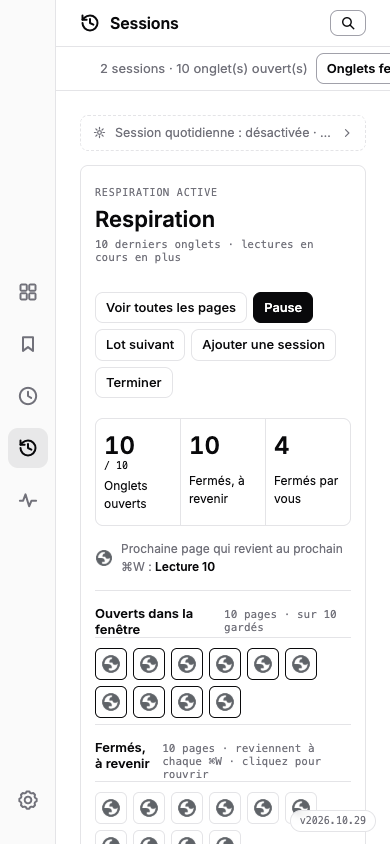
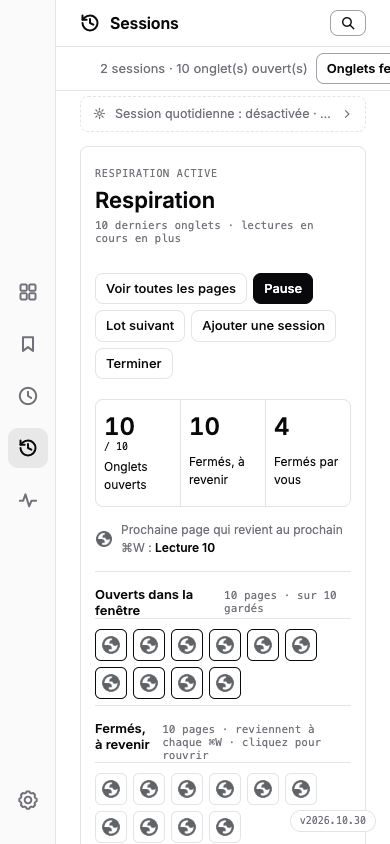
add: apercu au survol des favicones dans respiration (titre, url, vignette)

diff --git a/extension/sessions.js b/extension/sessions.js
@@ -157,7 +157,7 @@
   }
 
   const domain = (url) => { try { return new URL(url).hostname.replace(/^www\./, ""); } catch { return ""; } };
-  const faviconImg = (tab) => `<img class="tl-fav" src="${esc(`${chrome.runtime.getURL("_favicon/")}?pageUrl=${encodeURIComponent(tab.url)}&size=32`)}" alt="" loading="lazy">`;
+  const faviconImg = (tab) => `<img class="tl-fav" data-page-url="${esc(tab.url)}" data-page-title="${esc(tab.title || tab.url)}" src="${esc(`${chrome.runtime.getURL("_favicon/")}?pageUrl=${encodeURIComponent(tab.url)}&size=32`)}" alt="" loading="lazy">`;
 
   async function previewSource(url) {
     if (previewCache.has(url)) return previewCache.get(url);
@@ -184,6 +184,119 @@
       }
       figure.querySelector("figcaption").textContent = caption || domain(url);
     }).catch(() => {});
+  }
+
+  // Un seul aperçu, chargé à la demande : aucune page de la file n’est réveillée.
+  function bindIconPreview() {
+    const card = document.createElement("div");
+    card.id = "session-icon-preview";
+    card.className = "session-icon-preview";
+    card.setAttribute("popover", "manual");
+    card.setAttribute("role", "tooltip");
+    card.innerHTML = '<div class="session-icon-shot"></div><div class="session-icon-caption"><strong></strong><span></span></div>';
+    document.body.append(card);
+    const shot = card.querySelector(".session-icon-shot");
+    let anchor = null, pointer = null, showTimer, hideTimer, imageTimer, generation = 0;
+    const hide = () => {
+      clearTimeout(showTimer); clearTimeout(hideTimer); clearTimeout(imageTimer);
+      generation++;
+      if (anchor) {
+        const ids = (anchor.getAttribute("aria-describedby") || "").split(/\s+/).filter((id) => id && id !== card.id);
+        if (ids.length) anchor.setAttribute("aria-describedby", ids.join(" "));
+        else anchor.removeAttribute("aria-describedby");
+      }
+      anchor = null;
+      card.hidePopover();
+      shot.replaceChildren();
+    };
+    const position = () => {
+      if (!anchor?.isConnected) return hide();
+      const rect = anchor.getBoundingClientRect();
+      const box = card.getBoundingClientRect();
+      const left = Math.max(8, Math.min(rect.left, innerWidth - box.width - 8));
+      const below = rect.bottom + 8;
+      const top = below + box.height <= innerHeight - 8 ? below : Math.max(8, rect.top - box.height - 8);
+      card.style.left = `${left}px`;
+      card.style.top = `${top}px`;
+    };
+    const find = (target) => {
+      if (!(target instanceof Element)) return null;
+      const trigger = target.closest(".respiration-fav") || target.closest(".tl-fav[data-page-url]");
+      const img = trigger?.matches("img") ? trigger : trigger?.querySelector(".tl-fav[data-page-url]");
+      return img ? { trigger, img } : null;
+    };
+    const show = (item, immediate = false) => {
+      clearTimeout(hideTimer);
+      if (anchor === item.trigger) return;
+      hide();
+      anchor = item.trigger;
+      const token = generation;
+      const { pageUrl: url, pageTitle: title } = item.img.dataset;
+      showTimer = setTimeout(async () => {
+        if (token !== generation || !anchor?.isConnected) return;
+        card.querySelector("strong").textContent = title;
+        card.querySelector(".session-icon-caption > span").textContent = url;
+        shot.textContent = "Chargement de la vignette…";
+        anchor.setAttribute("aria-describedby", [anchor.getAttribute("aria-describedby"), card.id].filter(Boolean).join(" "));
+        card.showPopover();
+        position();
+        const unavailable = () => {
+          if (token !== generation) return;
+          clearTimeout(imageTimer);
+          shot.textContent = "Vignette indisponible pour cette page";
+        };
+        imageTimer = setTimeout(unavailable, 12000);
+        try {
+          const src = await previewSource(url) || fallbackThumb(url);
+          if (token !== generation) return;
+          if (!src) return unavailable();
+          const img = new Image();
+          img.alt = `Aperçu de ${title}`;
+          img.onload = () => {
+            if (token !== generation) return;
+            clearTimeout(imageTimer);
+            shot.replaceChildren(img);
+          };
+          img.onerror = unavailable;
+          img.src = src;
+        } catch { unavailable(); }
+      }, immediate ? 0 : 180);
+    };
+    const leave = (event) => {
+      const next = event.relatedTarget;
+      if (next instanceof Node && (card.contains(next) || anchor?.contains(next))) return;
+      clearTimeout(hideTimer);
+      hideTimer = setTimeout(hide, 160);
+    };
+    document.addEventListener("mousemove", (event) => { pointer = { x: event.clientX, y: event.clientY }; });
+    document.addEventListener("mouseover", (event) => {
+      pointer = { x: event.clientX, y: event.clientY };
+      if (card.contains(event.target)) { clearTimeout(hideTimer); return; }
+      const item = find(event.target);
+      if (item) show(item);
+    });
+    document.addEventListener("mouseout", (event) => {
+      if (anchor?.contains(event.target) || card.contains(event.target)) leave(event);
+    });
+    document.addEventListener("focusin", (event) => {
+      const item = find(event.target);
+      if (item) show(item, true);
+      else hide();
+    });
+    document.addEventListener("focusout", leave);
+    document.addEventListener("keydown", (event) => { if (event.key === "Escape") hide(); });
+    document.addEventListener("click", (event) => { if (!card.contains(event.target)) hide(); });
+    document.addEventListener("scroll", (event) => { if (!card.contains(event.target)) hide(); }, true);
+    window.addEventListener("resize", hide);
+    window.addEventListener("blur", hide);
+    // Les grilles sont recréées lors des mises à jour de la file.
+    new MutationObserver(() => {
+      if (!anchor || anchor.isConnected) return;
+      const previous = find(anchor)?.img.dataset.pageUrl;
+      const replacement = pointer && find(document.elementFromPoint(pointer.x, pointer.y));
+      hide();
+      if (replacement?.img.dataset.pageUrl === previous) show(replacement);
+    }).observe(document.body, { childList: true, subtree: true });
   }
 
   const liveSession = (win, index) => ({ ...win, id: `live:${win.id}`, title: `Fenêtre ${index + 1}`, windows: [win], tags: [], note: "" });
@@ -307,7 +420,7 @@
       const live = e.state === "open" && e.tabId != null;
       const action = live ? "focus-tab" : "open-page";
       const state = e.keepReason === "media" && e.state === "open" ? "▶ Lecture en cours" : respirationState(e.state);
-      return `<button type="button" class="respiration-fav" data-r-action="${action}"${live ? ` data-id="${e.tabId}"` : ""} data-url="${esc(e.url)}" title="${esc(`${e.title} — ${state}`)}" aria-label="${esc(`${e.title} — ${state}`)}">${faviconImg(e)}</button>`;
+      return `<button type="button" class="respiration-fav" data-r-action="${action}"${live ? ` data-id="${e.tabId}"` : ""} data-url="${esc(e.url)}" aria-label="${esc(`${e.title} — ${state}`)}">${faviconImg(e)}</button>`;
     };
     const group = (state, title, hint, entries) => `<section class="respiration-group" data-r-section="${state}"><header><strong>${title}</strong><span>${entries.length} page${entries.length > 1 ? "s" : ""}${hint ? ` · ${hint}` : ""}</span></header>${entries.length ? `<div class="respiration-grid">${entries.map(fav).join("")}</div>` : `<p class="respiration-note">Rien ici pour l’instant.</p>`}</section>`;
     const nextUp = globalThis.PKRespiration?.nextEntry?.(q) || null;
@@ -323,7 +436,7 @@
     const orderHTML = q.capsules.length > 1
       ? `<details data-r-capsules><summary>Ordre de retour · ${q.capsules.length} lots de pages</summary><p class="respiration-note">Un lot = des pages de même provenance (un groupe Chrome, ou les onglets de la fenêtre). La prochaine page vient du lot en haut ; montez, descendez ou passez au lot suivant.</p><ol class="respiration-capsules">${q.capsules.map(capsuleRow).join("")}</ol></details>`
       : "";
-    host.innerHTML = `<section class="respiration-card"><div class="respiration-head"><div><span class="respiration-eyebrow">${label}</span><h2>Respiration <span class="respiration-budget">${q.target} derniers onglets · lectures en cours en plus</span></h2></div><div class="respiration-actions">${button("view", "Voir toutes les pages")}${button(q.paused ? "resume" : "pause", q.paused ? "Reprendre" : "Pause", "", true)}${opened > q.target ? button("compact", `Réduire à ${q.target} onglets`) : ""}${usableLots > 1 ? button("next", "Lot suivant") : ""}${button("enqueue-dialog", "Ajouter une session")}${button("stop", "Terminer")}</div></div><div class="respiration-stats" role="status"><div data-state="open"><strong>${opened}<small> / ${q.target}${playing ? ` + ${playing} lecture(s)` : ""}</small></strong><span>Onglets ouverts</span></div><div data-state="pending"><strong>${pendingEntries.length}</strong><span>Fermés, à revenir</span></div><div data-state="done"><strong>${doneEntries.length}</strong><span>Fermés par vous</span></div></div>${q.reason ? `<p class="respiration-note">${esc(q.reason)}</p>` : ""}${keptHTML}${nextHTML}<div class="respiration-groups">${group("open", "Ouverts dans la fenêtre", `sur ${q.target} gardés`, openEntries)}${group("pending", "Fermés, à revenir", "reviennent à chaque ⌘W · cliquez pour rouvrir", pendingEntries)}${group("done", "Fermés par vous", "sans retour automatique", doneEntries)}${outsideEntries.length ? group("outside", "Déplacés ailleurs", "", outsideEntries) : ""}</div><p class="respiration-note">Survolez une favicône pour son titre ; cliquez pour activer l’onglet ouvert ou rouvrir la page.</p>${orderHTML}</section>`;
+    host.innerHTML = `<section class="respiration-card"><div class="respiration-head"><div><span class="respiration-eyebrow">${label}</span><h2>Respiration <span class="respiration-budget">${q.target} derniers onglets · lectures en cours en plus</span></h2></div><div class="respiration-actions">${button("view", "Voir toutes les pages")}${button(q.paused ? "resume" : "pause", q.paused ? "Reprendre" : "Pause", "", true)}${opened > q.target ? button("compact", `Réduire à ${q.target} onglets`) : ""}${usableLots > 1 ? button("next", "Lot suivant") : ""}${button("enqueue-dialog", "Ajouter une session")}${button("stop", "Terminer")}</div></div><div class="respiration-stats" role="status"><div data-state="open"><strong>${opened}<small> / ${q.target}${playing ? ` + ${playing} lecture(s)` : ""}</small></strong><span>Onglets ouverts</span></div><div data-state="pending"><strong>${pendingEntries.length}</strong><span>Fermés, à revenir</span></div><div data-state="done"><strong>${doneEntries.length}</strong><span>Fermés par vous</span></div></div>${q.reason ? `<p class="respiration-note">${esc(q.reason)}</p>` : ""}${keptHTML}${nextHTML}<div class="respiration-groups">${group("open", "Ouverts dans la fenêtre", `sur ${q.target} gardés`, openEntries)}${group("pending", "Fermés, à revenir", "reviennent à chaque ⌘W · cliquez pour rouvrir", pendingEntries)}${group("done", "Fermés par vous", "sans retour automatique", doneEntries)}${outsideEntries.length ? group("outside", "Déplacés ailleurs", "", outsideEntries) : ""}</div><p class="respiration-note">Survolez une favicône pour voir le titre, l’URL et la vignette ; cliquez pour activer l’onglet ouvert ou rouvrir la page.</p>${orderHTML}</section>`;
     const queue = host.querySelector("[data-r-capsules]");
     if (expandedQueue && queue) queue.open = true;
     if (focused?.rAction) [...host.querySelectorAll("[data-r-action]")]
@@ -1008,6 +1121,7 @@
       importButton.after(input);
       importButton.addEventListener("click", () => input.click());
     }
+    bindIconPreview();
     el.addEventListener("mouseover", previewFromEvent);
     el.addEventListener("focusin", previewFromEvent);
     document.addEventListener("keydown", (event) => {
@@ -1019,6 +1133,7 @@
     chrome.storage.onChanged.addListener((changes, area) => {
       if (area !== "local") return;
       if (changes["bs.sessions.library"] || changes["bs.sessions.previews"] || changes["bs.respiration"]) scheduleRefresh();
+      if (changes["bs.sessions.previews"] || changes["bs.sessions.library"]) previewCache.clear();
       if (changes.settings) {
         thumbsMode = changes.settings.newValue?.thumbsMode || "mshots";
         previewCache.clear();

diff --git a/extension/style.css b/extension/style.css
@@ -738,6 +738,14 @@ input[type="search"] { flex: 1; max-width: 380px; }
 .respiration-group[data-r-section="done"] .respiration-fav { opacity: .55; }
 .respiration-group[data-r-section="done"] .respiration-fav:hover { opacity: 1; }
 
+/* Aperçu des favicônes, dans la couche supérieure (y compris les dialogues). */
+.session-icon-preview { position: fixed; inset: auto; margin: 0; padding: 0; width: 300px; max-width: calc(100vw - 16px); max-height: calc(100dvh - 16px); overflow: auto; border: 1px solid var(--border); border-radius: 10px; background: var(--bg); color: var(--fg); box-shadow: 0 8px 28px #0003; font: 400 12px/1.5 var(--sans); }
+.session-icon-shot { width: 100%; aspect-ratio: 1.6; display: flex; align-items: center; justify-content: center; background: var(--muted-bg); color: var(--muted); text-align: center; font-size: 11px; overflow: hidden; }
+.session-icon-shot img { width: 100%; height: 100%; object-fit: cover; object-position: top; display: block; }
+.session-icon-caption { display: grid; gap: 6px; padding: 12px 14px; overflow-wrap: anywhere; }
+.session-icon-caption strong { font-size: 13px; font-weight: 600; }
+.session-icon-caption > span { font: 400 11px/1.5 var(--mono); color: var(--muted); }
+
 /* Squelettes de premier chargement : une structure visible au lieu d'un
    écran vide pendant que le service worker répond. */
 .tl-skel { pointer-events: none; }

diff --git a/README.md b/README.md
@@ -6,7 +6,7 @@
 
 [🇫🇷 Français](README.md) · [🇬🇧 English](README.en.md)
 
-Votre vie web, organisée : **favoris, historique, sessions et liens utiles réunis dans un seul espace.** Extension Chrome sans étape de build ni dépendance distante à installer. Version **2026.10.29**.
+Votre vie web, organisée : **favoris, historique, sessions et liens utiles réunis dans un seul espace.** Extension Chrome sans étape de build ni dépendance distante à installer. Version **2026.10.30**.
 
 ## Aperçu
 
@@ -54,7 +54,7 @@ Le kit média v4 (`store/v4/`) est la vitrine actuelle : cinq captures 1280×800
 
 Dans **Sessions → Activer Respiration**, choisissez une fenêtre et le nombre d’onglets web à garder (10 par défaut, de 1 à 30). **Seuls les N derniers onglets de la fenêtre restent ouverts ; tout le reste est sauvegardé puis fermé.** La seule exception : une **lecture en cours (vidéo ou audio)**, conservée en plus de la cible puis fermée quand elle s’arrête. Avec 100 pages, vous gardez 91 à 100 : fermer 100 fait revenir 90 à gauche, fermer 99 fait revenir 89, sans prendre le focus. L’ordre est celui des onglets, pas celui des dernières consultations.
 
-Le panneau affiche trois compteurs et autant de sections, à la même lecture : **Onglets ouverts** (x / cible, lectures en cours en plus) avec la grille des onglets réellement ouverts — un clic les active ; **Fermés, à revenir** — les pages sauvegardées puis fermées, chacune revient au prochain ⌘W, un clic la rouvre ; **Fermés par vous** — les pages retirées de la tournée, sans retour automatique. Chaque page est une favicône (survol : titre et état) et **toutes les pages de la section sont affichées**, pas un échantillon. « Voir toutes les pages » ouvre en plus un grand panneau détaillé : titre, URL complète, filtre par état et recherche, mise à jour en direct.
+Le panneau affiche trois compteurs et autant de sections, à la même lecture : **Onglets ouverts** (x / cible, lectures en cours en plus) avec la grille des onglets réellement ouverts — un clic les active ; **Fermés, à revenir** — les pages sauvegardées puis fermées, chacune revient au prochain ⌘W, un clic la rouvre ; **Fermés par vous** — les pages retirées de la tournée, sans retour automatique. Chaque page est une favicône (survol ou focus clavier : titre complet, URL et vignette) et **toutes les pages de la section sont affichées**, pas un échantillon. L’aperçu utilise la capture locale disponible, puis le service de miniatures si ce réglage est activé ; sinon il indique que la vignette est indisponible. Aucun onglet n’est rouvert au survol. « Voir toutes les pages » ouvre en plus un grand panneau détaillé : titre, URL complète, filtre par état et recherche, mise à jour en direct.
 
 Les groupes Chrome et les pages non groupées forment des **lots de pages**. Ils ne servent qu’à une chose : l’ordre de retour. Une ligne annonce la **prochaine page qui revient au prochain ⌘W** ; le repli « Ordre de retour » n’apparaît que s’il y a plusieurs lots (un groupe Chrome, les onglets de la fenêtre…) et permet de les remonter/descendre ou de passer au lot suivant. Les pages ouvertes après le lancement rejoignent le lot de la fenêtre — plus de doublon « Pages ajoutées à la fenêtre » ; les anciennes files sont fusionnées au rechargement. Une page ouverte manuellement fait partie du même budget : sauvegardée, puis la plus ancienne des N dernières sort au contrôle suivant (30 s) — jamais au milieu d’une restauration. **Pause** arrête le remplissage ; **Terminer** désactive la tournée sans fermer les pages ouvertes ni supprimer les sessions.
 

diff --git a/README.en.md b/README.en.md
@@ -6,7 +6,7 @@
 
 [🇫🇷 Français](README.md) · [🇬🇧 English](README.en.md)
 
-Your browsing life, organized: **bookmarks, history, sessions and your useful links together in one workspace.** Chrome extension with no build step or remote dependencies to install. Version **2026.10.29**.
+Your browsing life, organized: **bookmarks, history, sessions and your useful links together in one workspace.** Chrome extension with no build step or remote dependencies to install. Version **2026.10.30**.
 
 ## Preview
 
@@ -54,7 +54,7 @@ The v4 media kit (`store/v4/`) is the current showcase: five 1280×800 captures 
 
 In **Sessions → Activer Respiration**, choose a window and a target number of web tabs (10 by default, from 1 to 30). **Only the last N tabs of the window stay open; everything else is saved, then closed.** The single exception: **media currently playing (video or audio)**, kept on top of the target and closed once it stops. With 100 pages, you keep 91 through 100: closing 100 brings back 90 on the left, then closing 99 brings back 89, without taking focus. The queue follows tab order, not recently visited order.
 
-The panel shows three counters and three matching sections, readable at a glance: **Onglets ouverts** (open tabs — x / target, ongoing playback on top) with the grid of actually open tabs — click to activate; **Fermés, à revenir** — every page saved then closed, each one returns on the next ⌘W, click to reopen; **Fermés par vous** — pages you closed yourself, with no automatic return. Every page is a favicon (hover: title and state) and **every page in the section is displayed**, not a sample. “Voir toutes les pages” additionally opens a large detailed panel: title, full URL, per-state filter and search, updated live.
+The panel shows three counters and three matching sections, readable at a glance: **Onglets ouverts** (open tabs — x / target, ongoing playback on top) with the grid of actually open tabs — click to activate; **Fermés, à revenir** — every page saved then closed, each one returns on the next ⌘W, click to reopen; **Fermés par vous** — pages you closed yourself, with no automatic return. Every page is a favicon (hover or keyboard focus: full title, URL and thumbnail) and **every page in the section is displayed**, not a sample. The preview uses the available local capture, then the thumbnail service when enabled; otherwise it reports that the thumbnail is unavailable. Hovering never reopens a tab. “Voir toutes les pages” additionally opens a large detailed panel: title, full URL, per-state filter and search, updated live.
 
 Chrome groups and consecutive ungrouped tabs form **page lots**. They serve one purpose: the return order. One line announces the **next page that comes back on ⌘W**; the “Ordre de retour” fold only appears when there are several lots (a Chrome group, the window’s tabs…) and lets you move them up/down or skip to the next lot. Pages opened after launch join the window’s lot — no more duplicated “Pages ajoutées à la fenêtre” capsule; older queues are merged on extension reload. A manually opened page belongs to the same budget: it is saved, then the oldest of the last N tabs leaves on the next check (30 s) — never during a restore. **Pause** stops refilling; **Terminer** stops the tour without closing open pages or deleting saved sessions.
 

diff --git a/store/respiration/README.md b/store/respiration/README.md
@@ -1,4 +1,4 @@
-# Respiration · 2026.10.29
+# Respiration · 2026.10.30
 
 Captures de l’extension réelle dans un profil Chrome for Testing jetable, avec
 des pages fictives servies sur localhost (dont une page vidéo locale lue via
@@ -10,10 +10,13 @@ le formulaire (cible 10), fermetures ⌘W et remplissage, pause/reprise, puis un
 second scénario avec brouillon dans une iframe, éditeur rempli et vidéo en
 lecture — les deux premiers sont fermés, seule la lecture survit.
 
+- `screenshots/respiration-hover.png` : 1440 × 1000 — aperçu au survol : titre, URL et capture locale. Le test prend une vraie capture de la page de fixture « Lecture 15 », puis l’insère dans le cache local pour vérifier l’affichage indépendamment du service externe.
 - `screenshots/respiration-desktop.png` : 1440 × 1000 — panneau Respiration,
   trois compteurs (ouverts / fermés à revenir / fermés par vous), les grilles
   complètes de favicônes par état, la prochaine page qui revient et l’ordre de
   retour replié (affiché seulement s’il y a plusieurs lots).
+- `screenshots/respiration-hover.png` : 1440 × 1000 — aperçu au survol
+  d’une favicône : titre complet, URL et vignette de la page.
 - `screenshots/respiration-pages.png` : 1440 × 1000 — grand panneau « Voir
   toutes les pages » : favicône, titre, URL complète et état par ligne,
   filtre par état et recherche.

diff --git a/CHANGELOG.md b/CHANGELOG.md
@@ -1,4 +1,10 @@
 # Changelog
+## [2026.10.30] - 2026-10-18
+
+### Added
+
+- **Aperçu au survol des favicônes** : titre complet, URL et vignette dans une carte près de l’icône, également au focus clavier dans Respiration. Capture locale prioritaire, service de miniatures selon le réglage existant, indication explicite si indisponible. Chargement à la demande sans rouvrir les onglets ; carte survolable, fermeture avec Échap, position adaptée aux bords de la fenêtre.
+
 ## [2026.10.29] - 2026-10-18
 
 ### Changed
